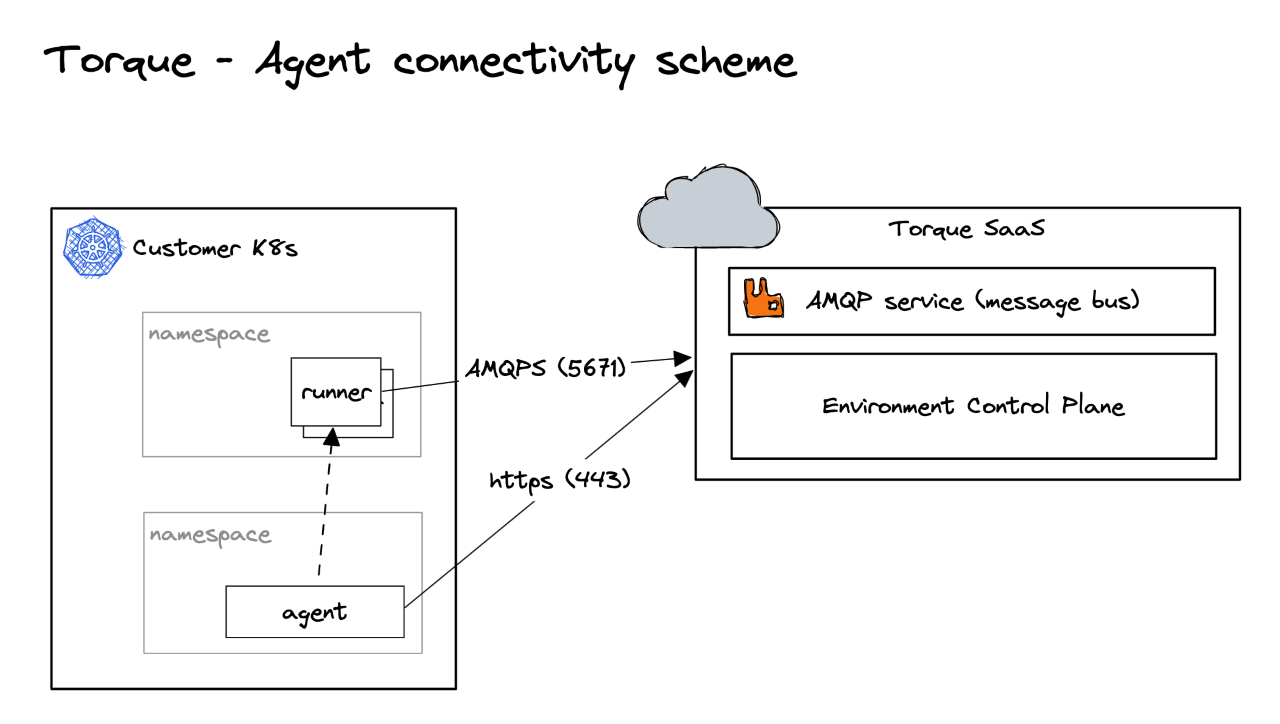
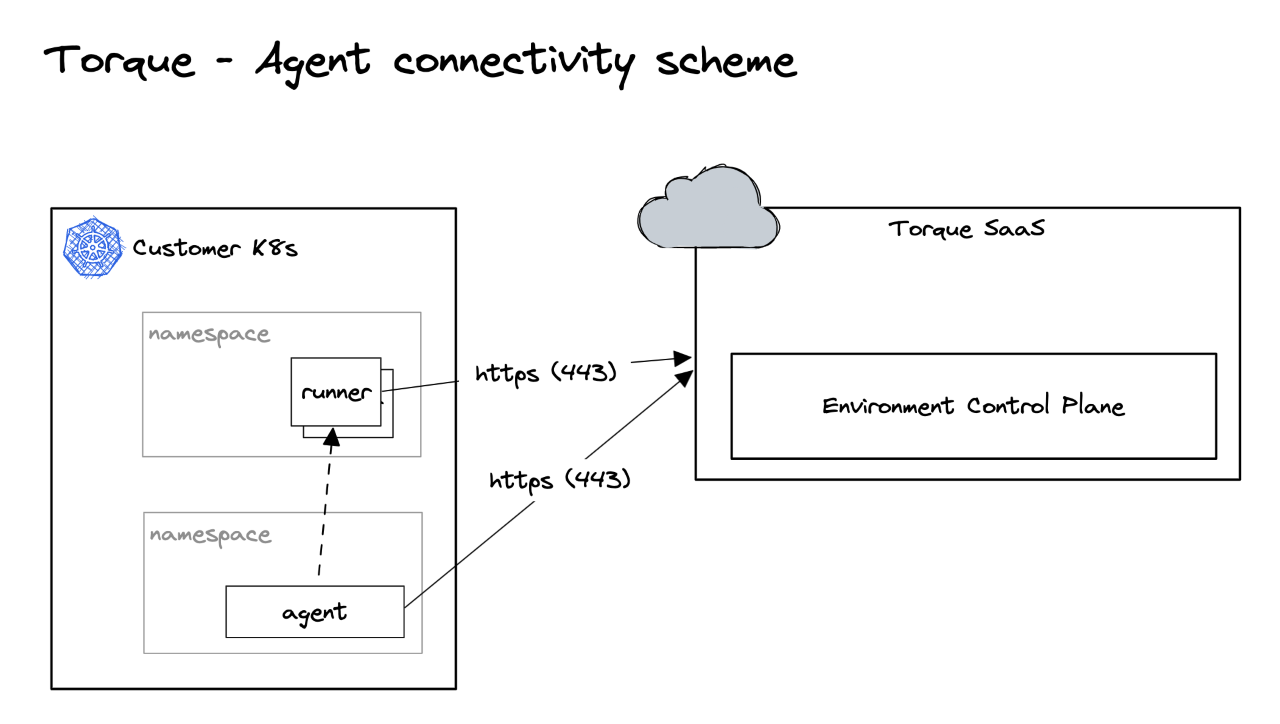
update agent communication default to https

Changed region(s): [[0.5625, 0.3646, 0.9688, 0.4862], [0.3438, 0.4862, 0.5, 0.547]]

diff --git a/docs/torque-agent/torque-outbound-ports.md b/docs/torque-agent/torque-outbound-ports.md
@@ -8,7 +8,7 @@ This table lists the outbound ports that are required for Kubernetes cluster nod
 |Target Name                                |Target Address/Hostname                             |Type        |Ports|Traffic Purpose                                |
 |------------------------------------       |----------------------------------------------------|------------|-----|-----------------------------------------------|
 |Torque Back-end Services & APIs                       |https://portal.qtorque.io                       |HTTPS       |443  |Communicate from agent to Torque APIs          |
-|Message broker for Torque <br /> (Deprecated)                |amqps://cloudamqp.qtorque.io <br /> (Communication using AMQPS is optional, please contact Quali for more information)|AMQPS      |5671|Communicate between agent and back-end using message queues|
+|Message broker for Torque <br /> (Deprecated)                |https://portal.qtorque.io <br /> |HTTPS      |443|Communicate between agent and back-end using message queues|
 |Github                                     |https://github.com/your_repo                        |HTTPS|443   |Retrieve customer's repo from GitHub using Git to TF Runner Pod|
 |Hashicorp - Terraform Releases download    |https://releases.hashicorp.com                      |HTTPS|443   |Download and install Terraform on sandbox TF Runner pod|
 |Hashicorp - Terraform Providers registry   |https://registry.terraform.io                       |HTTPS|443   |Download Terraform provider to TF Runner Pod|
